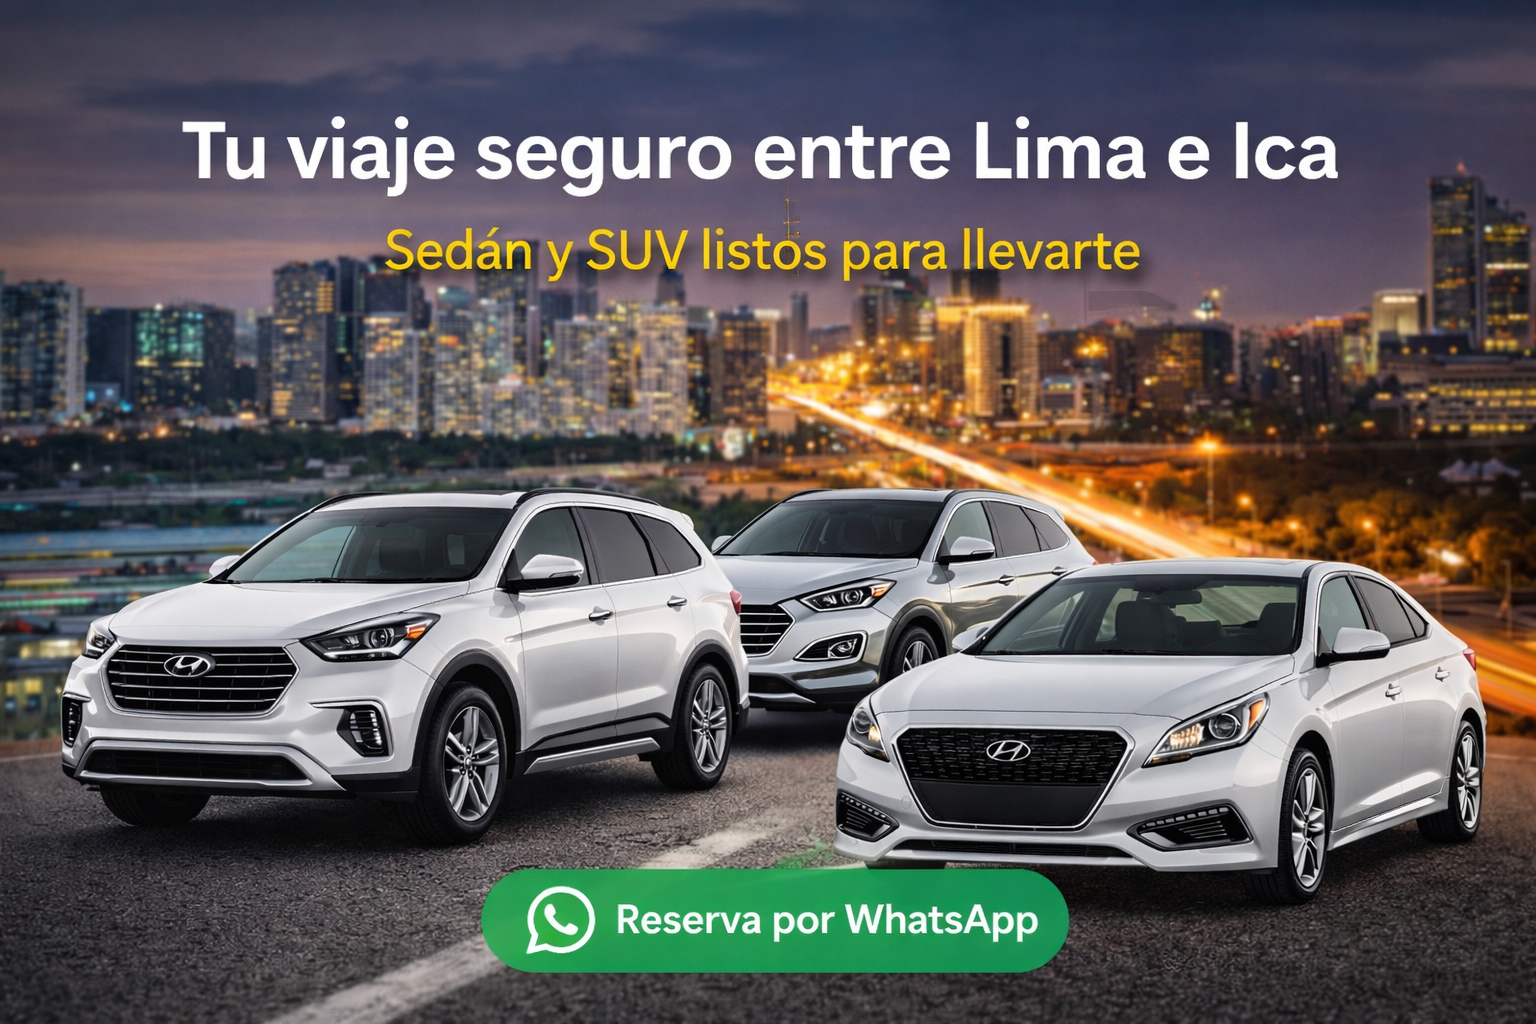
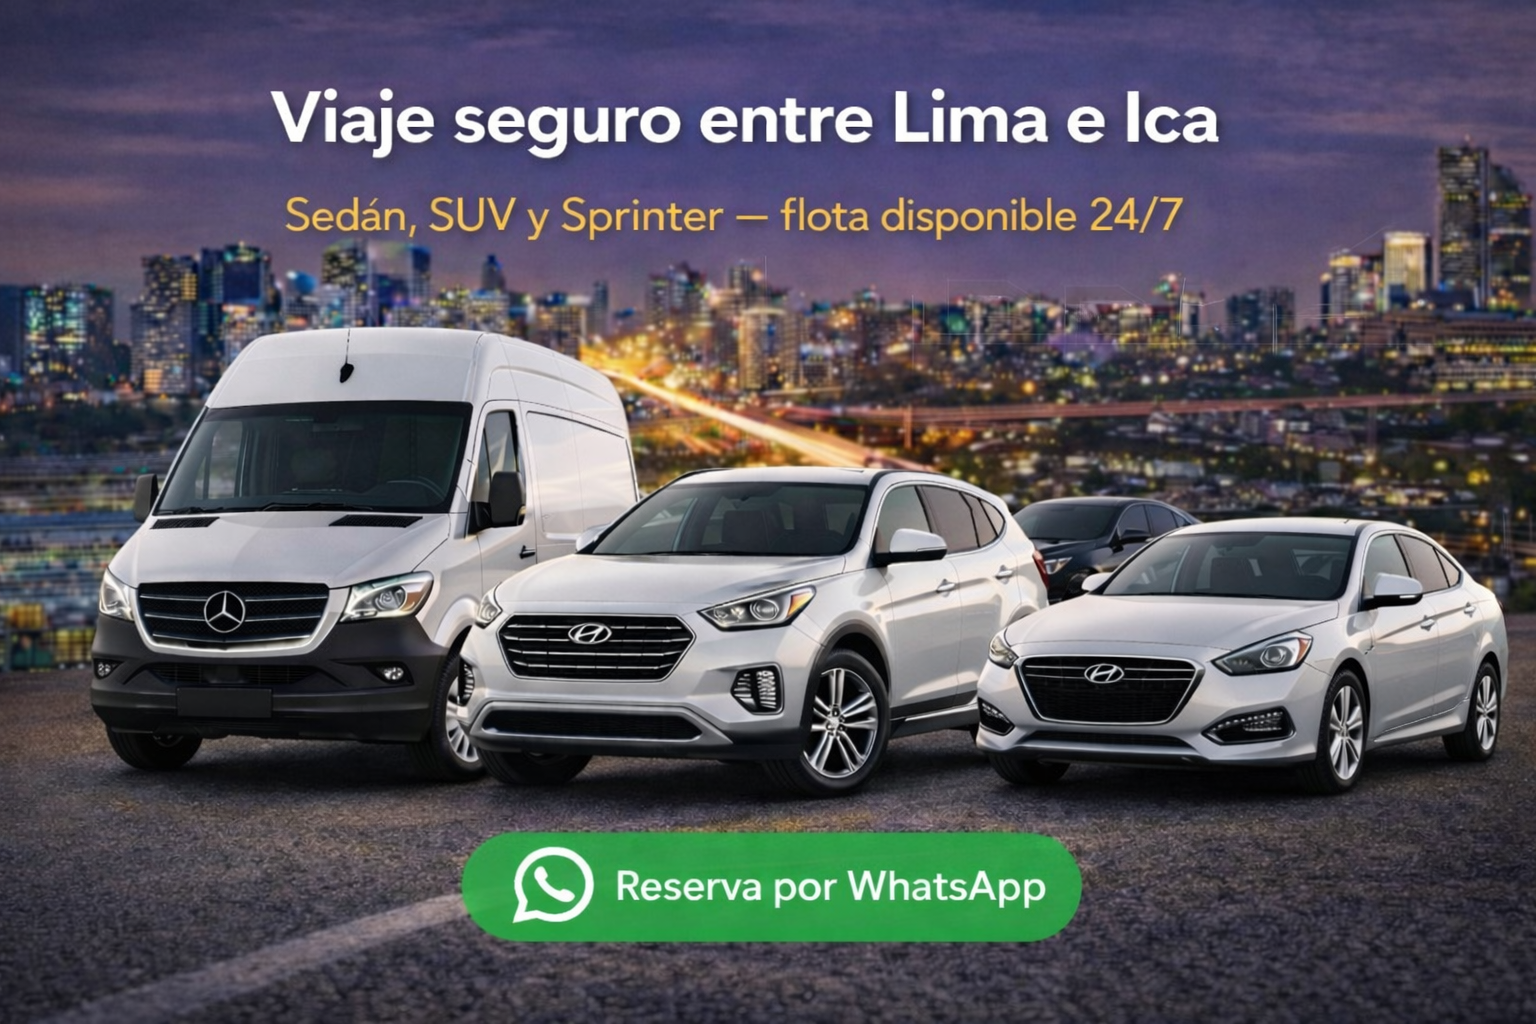
Mensaje del commit

diff --git a/index.html b/index.html
@@ -749,7 +749,7 @@
 <img alt="best-seller" class="main-slider-one__sub-title-logo" src="assets/images/shapes/best-seller.png"/>
 <h5 class="main-slider-one__sub-title">TAXI LIMA-ICA</h5><!-- /.slider-sub-title -->
 </div><!-- /.main-slider-one__top -->
-<h2 class="main-slider-one__title">Viaje seguro de <br/>Lima a Ica sin paradas</h2>
+<h2 class="main-slider-one__title"> Lima → Ica directo, rápido y seguro. <br/> Salidas puntuales todos los días. </h2>
 <!-- /.slider-title -->
 <div class="main-slider-one__button">
 <a class="main-slider-one__btn cityride-btn cityride-btn--secondary" href="https://wa.link/u8d8r6"><span>Reserva ahora</span></a><!-- slider-btn -->
@@ -788,7 +788,7 @@
 <img alt="best-seller" class="main-slider-one__sub-title-logo" src="assets/images/shapes/best-seller.png"/>
 <h5 class="main-slider-one__sub-title">TAXI LIMA-ICA</h5><!-- /.slider-sub-title -->
 </div><!-- /.main-slider-one__top -->
-<h2 class="main-slider-one__title">Viaje seguro de <br/>Lima a Ica sin paradas</h2>
+<h2 class="main-slider-one__title"> Tu mejor ruta a Ica: viaje cómodo, <br/> sin escalas y con total seguridad. </h2>
 <!-- /.slider-title -->
 <div class="main-slider-one__button">
 <a class="main-slider-one__btn cityride-btn cityride-btn--secondary" href="https://wa.link/u8d8r6"><span>Reserva ahora</span></a><!-- slider-btn -->
@@ -822,8 +822,25 @@
 <!-- ======= Reserva Lima - Ica (Primera plana) ======= -->
 <section class="cityride-highlight" id="reserva-lima-ica">
   <div class="container">
+    <!-- ===== Banner FULL (solo escritorio) - agregado ===== -->
+    <div class="cr-price-banner cr-price-banner--desktop dg-reveal" aria-label="Banner promocional">
+      <picture>
+        <source srcset="assets/images/banner-frase.webp" type="image/webp">
+        <img src="assets/images/banner-frase.png" alt="Banner: No le pongas precio a tu vida... con seguridad" loading="lazy" decoding="async">
+      </picture>
+    </div>
+    <!-- ===== /Banner FULL (solo escritorio) ===== -->
+
     <div class="row gutter-y-30 align-items-start">
       <div class="col-lg-5">
+        <!-- ===== Banner promocional sobre el precio (solo agregado) ===== -->
+        <div class="cr-price-banner dg-reveal" aria-label="Banner promocional">
+          <picture>
+            <source srcset="assets/images/banner-frase.webp" type="image/webp">
+            <img src="assets/images/banner-frase.png" alt="Banner: No le pongas precio a tu vida... con seguridad" loading="lazy" decoding="async">
+          </picture>
+        </div>
+        <!-- ===== /Banner promocional sobre el precio ===== -->
         <div class="cityride-highlight__price-card">
           <div class="cityride-highlight__price-top">
             <div class="cityride-highlight__price-label">Precio por persona desde:</div>
@@ -980,6 +997,24 @@
 </style>
 <p class="taxi-card__company">SUV familiar (6 pasajeros)</p><p class="toasa-air-desc"> Más espacio, más comodidad y más equipaje. Ideal para familias o grupos. Viaje relajado con paradas coordinadas si las necesitas.</p><div class="toasa-badges"><span class="toasa-badge">Más maletas</span><span class="toasa-badge">A/C</span><span class="toasa-badge">Paradas coordinadas</span><span class="toasa-badge">Conductor verificado</span></div>
 <a class="cityride-btn cityride-btn--secondary" href="https://wa.link/u8d8r6" rel="noopener" target="_blank"><span class="cityride-btn__icon"><i class="icon-front-car"></i></span><span>Cotizar por WhatsApp</span></a>
+</div>
+</div>
+</div>
+</div>
+
+<div class="col-xxl-3 col-lg-4 col-md-6">
+<div class="taxi-card">
+<h4>Sprinter (13 pasajeros)</h4><div class="taxi-card__inner">
+<div class="taxi-card__image">
+<img alt="Sprinter" onerror="this.style.display='none'" src="assets/images/vehicles/sprinter.png"/>
+</div>
+<div class="taxi-card__content">
+<h3 class="taxi-card__title">Sprinter</h3>
+<p class="taxi-card__company">Ideal para 13 personas</p>
+<p class="toasa-air-desc">Ideal para grupos grandes: más asientos, más comodidad y más equipaje. Viaje directo Lima ↔ Ica con conductor verificado.</p>
+<div class="toasa-badges"><span class="toasa-badge">13 pasajeros</span><span class="toasa-badge">A/C</span><span class="toasa-badge">Amplio maletero</span><span class="toasa-badge">Ruta directa</span></div>
+<a class="cityride-btn cityride-btn--secondary" href="https://wa.link/u8d8r6" rel="noopener" target="_blank"><span class="cityride-btn__icon"><i class="icon-front-car"></i></span><span>Cotizar por WhatsApp</span></a>
+</div>
 </div>
 </div>
 </div>

diff --git a/assets/css/cityride.css b/assets/css/cityride.css
@@ -18174,3 +18174,133 @@ img, video, iframe {
     padding-bottom: 70px !important;
   }
 }
+
+
+/* ========================================================================== */
+/* ===== CityRide: Banner promocional sobre la tarjeta de precio (AGREGADO) === */
+/* ========================================================================== */
+.cr-price-banner{
+  position: relative;
+  margin: 0 0 14px;
+  border-radius: 18px;
+  overflow: hidden;
+  background: #0b0b0b;
+  box-shadow: 0 14px 35px rgba(0,0,0,.18);
+}
+
+.cr-price-banner picture,
+.cr-price-banner img{
+  display: block;
+  width: 100%;
+  height: auto;
+}
+
+.cr-price-banner::before{
+  content:"";
+  position:absolute;
+  inset:0;
+  pointer-events:none;
+  border-radius: inherit;
+  /* borde sutil (premium) */
+  box-shadow: inset 0 0 0 1px rgba(255,255,255,.10);
+}
+
+.cr-price-banner::after{
+  content:"";
+  position:absolute;
+  inset:-18px -40px;
+  pointer-events:none;
+  border-radius: 22px;
+  background: linear-gradient(120deg,
+    rgba(255,255,255,0) 0%,
+    rgba(255,255,255,.0) 32%,
+    rgba(255,255,255,.45) 46%,
+    rgba(255,255,255,.0) 58%,
+    rgba(255,255,255,0) 100%);
+  transform: translateX(-140%) skewX(-18deg);
+  opacity: 0;
+}
+
+/* Entrada más “pro” que el reveal base */
+.cr-price-banner.dg-reveal{
+  opacity: 0;
+  transform: translateY(18px) scale(.985);
+}
+.cr-price-banner.dg-reveal.is-inview{
+  opacity: 1;
+  transform: translateY(0) scale(1);
+  transition: opacity .55s ease, transform .55s cubic-bezier(.2,.85,.2,1);
+}
+
+/* Efectos continuos luego de aparecer */
+.cr-price-banner.is-inview{
+  animation: crBannerFloat 6.5s ease-in-out .9s infinite;
+  will-change: transform;
+}
+.cr-price-banner.is-inview::after{
+  animation: crBannerShine 4.2s ease-in-out 1.2s infinite;
+}
+
+@keyframes crBannerFloat{
+  0%,100%{ transform: translateY(0) scale(1); }
+  50%{ transform: translateY(-6px) scale(1); }
+}
+
+@keyframes crBannerShine{
+  0%{ transform: translateX(-140%) skewX(-18deg); opacity: 0; }
+  14%{ opacity: .85; }
+  34%{ transform: translateX(140%) skewX(-18deg); opacity: 0; }
+  100%{ opacity: 0; }
+}
+
+@media (hover:hover){
+  .cr-price-banner:hover{
+    box-shadow: 0 18px 45px rgba(0,0,0,.22);
+    transition: box-shadow .25s ease;
+  }
+}
+
+@media (max-width: 575px){
+  .cr-price-banner{ margin-bottom: 12px; }
+}
+
+@media (prefers-reduced-motion: reduce){
+  .cr-price-banner,
+  .cr-price-banner::after{
+    animation: none !important;
+    transition: none !important;
+  }
+  .cr-price-banner.dg-reveal{
+    opacity: 1 !important;
+    transform: none !important;
+  }
+}
+
+
+/* ========================================================================== */
+/* ===== CityRide: Banner FULL en escritorio (AGREGADO) ====================== */
+/* - Móvil: banner va encima del precio (dentro de la columna izquierda)
+   - Escritorio: se muestra un banner FULL (fuera del row) y se oculta el de la columna
+   (No borra nada, solo sobre-escribe con media queries) */
+/* ========================================================================== */
+.cr-price-banner--desktop{ display:none; }
+
+@media (min-width: 992px){
+  .cr-price-banner--desktop{
+    display:block;
+    margin: 0 0 22px;
+  }
+  /* Oculta el banner que está dentro del col-lg-5 (solo en escritorio) */
+  .cityride-highlight .col-lg-5 > .cr-price-banner{
+    display:none;
+  }
+}
+
+
+/* --- Si antes pusiste max-width en escritorio, esto lo neutraliza para el banner FULL --- */
+@media (min-width: 992px){
+  .cr-price-banner--desktop{
+    width: 100% !important;
+    max-width: 100% !important;
+  }
+}
